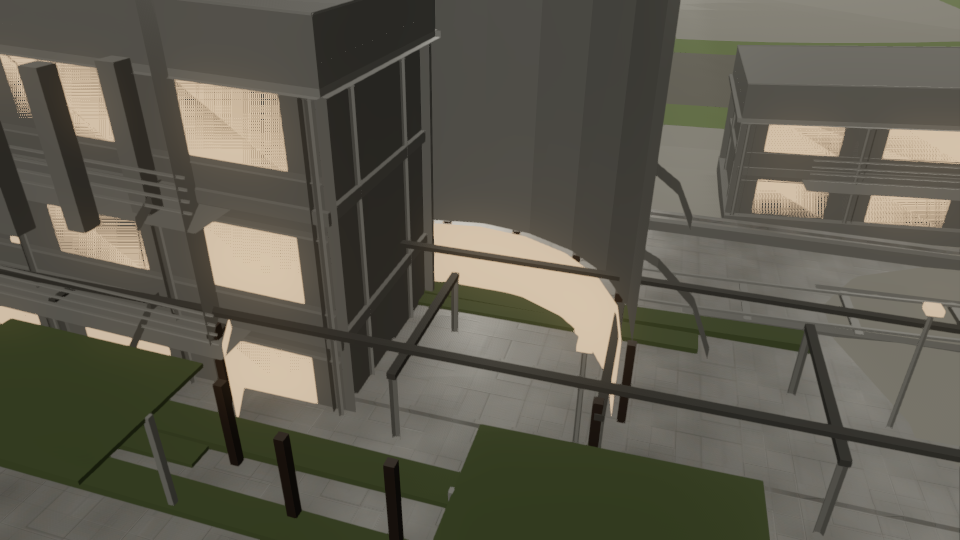
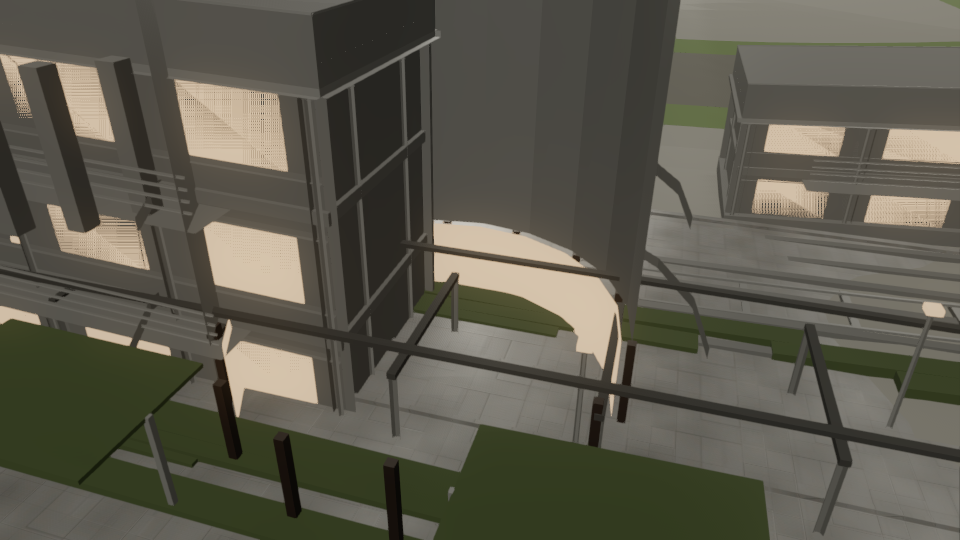
The Garden PASSES: 101.4% of its detail floor, layer 2 now 20/118
The last 20% came entirely from the GROUND. After the buildings and planting
were rebuilt the module still sat at 80.9%, and the reason was arithmetic: the
townscape's 41,000 m2 is nearly all ground, a flat plane carries no line at any
triangle count, and every object added raised the numerator while the ground
raised only the denominator. Paving bay joints both ways across the terrace,
planting-bed edging and service trench lids -- all things 29a shows and none of
which existed -- took it 80.9 -> 101.4%.

22,620 triangles against 2,228, inside a drum visible set still at 17.1% of
budget. tree() 30 -> 440, block_building() 48 -> ~1,600.

The material gate fired a second time on the new ground groups and was right
both times; garden_paving_joint, garden_bed_edge and garden_trench_lid now bind
to the laid-stone material already measured for the terrace.

All 14 suites green. directory 747/747, layer 2 16/118 -> 20/118.

Claude-Session: https://claude.ai/code/session_01LQinCXNhejLFW1oQqrfNCU

diff --git a/station/garden.py b/station/garden.py
@@ -137,7 +137,7 @@ PATH_W_M = 2.4
 PATH_PITCH_M = 14.0
 KERB_W_M = 0.15
 KERB_H_M = 0.12
-HEDGE_RUNS = 18
+HEDGE_RUNS = 24
 HEDGE_MIN_M = 6.0
 HEDGE_MAX_M = 18.0
 HEDGE_W_M = 0.8
@@ -224,9 +224,19 @@ TRACK_H_M = 0.9
 SLEEPER_PITCH_M = 3.2
 SLEEPER_W_M = 0.24
 SLEEPER_T_M = 0.16
-BOUNDARIES = 9
+BOUNDARIES = 16
 BOUNDARY_W_M = 0.35
 BOUNDARY_H_M = 0.55
+JOINT_PITCH_M = 1.8
+JOINT_W_M = 0.06
+BEDS = 28
+BED_MIN_M = 5.0
+BED_MAX_M = 16.0
+BED_EDGE_M = 0.10
+BED_EDGE_H_M = 0.22
+TRENCHES = 15
+TRENCH_W_M = 0.70
+TRENCH_LIP_M = 0.09
 
 # Settlement bands, read from interior.LAND_USE rather than restated.
 _SETTLEMENT = "settlement"
@@ -912,6 +922,52 @@ def hard_landscape(seed="garden"):
         _box(v, t, g, "garden_kerb",
              (min(ex0, ex1) - KERB_W_M, -0.16, min(ez0, ez1) - KERB_W_M),
              (max(ex0, ex1) + KERB_W_M, KERB_H_M, max(ez0, ez1) + KERB_W_M))
+
+    # THE GROUND ITSELF. After the buildings and the planting were rebuilt the
+    # module still sat at 80.9% of its floor, and the reason is arithmetic: the
+    # townscape's 39,193 m2 is nearly all GROUND, and a flat plane carries no
+    # line at any triangle count. Every object added above raises the numerator
+    # and the ground raises only the denominator.
+    #
+    # What a real settlement floor has, and 29a shows: paths are laid in bays
+    # with expansion joints, planting beds are edged, and service runs are
+    # covered by trench lids. All three are grooves and upstands -- continuous,
+    # thin, and the cheapest line on the station.
+    # Bay joints BOTH WAYS across the whole terrace, not only the spine. A slab
+    # field is laid in bays; the joints are what stops 39,000 m2 of ground being
+    # a single flat plane that carries no line at any triangle count.
+    for i in range(int((2 * hl) / JOINT_PITCH_M)):
+        jx = -hl + JOINT_PITCH_M * (i + 0.5)
+        _box(v, t, g, "garden_paving_joint",
+             (jx - JOINT_W_M / 2, -0.13, -hw), (jx + JOINT_W_M / 2, -0.105, hw))
+    for i in range(int((2 * hw) / JOINT_PITCH_M)):
+        jz = -hw + JOINT_PITCH_M * (i + 0.5)
+        _box(v, t, g, "garden_paving_joint",
+             (-hl, -0.13, jz - JOINT_W_M / 2), (hl, -0.105, jz + JOINT_W_M / 2))
+    for i in range(BEDS):
+        bx = -hl + 3.0 + (2 * hl - 6.0) * _u(seed, "bdx", i)
+        bz = (1.0 if _u(seed, "bds", i) > 0.5 else -1.0) * (
+            PATH_W_M + 2.0 + 6.0 * _u(seed, "bdz", i))
+        bl = BED_MIN_M + (BED_MAX_M - BED_MIN_M) * _u(seed, "bdl", i)
+        bw = BED_MIN_M * 0.55 + BED_MIN_M * 0.5 * _u(seed, "bdw", i)
+        for (ex0, ez0, ex1, ez1) in ((bx, bz - bw / 2, bx + bl, bz - bw / 2),
+                                     (bx, bz + bw / 2, bx + bl, bz + bw / 2),
+                                     (bx, bz - bw / 2, bx, bz + bw / 2),
+                                     (bx + bl, bz - bw / 2, bx + bl,
+                                      bz + bw / 2)):
+            _box(v, t, g, "garden_bed_edge",
+                 (min(ex0, ex1) - BED_EDGE_M, -0.10, min(ez0, ez1) - BED_EDGE_M),
+                 (max(ex0, ex1) + BED_EDGE_M, BED_EDGE_H_M,
+                  max(ez0, ez1) + BED_EDGE_M))
+    for i in range(TRENCHES):
+        tzz = -hw + 2 * hw * (i + 0.5) / TRENCHES
+        if abs(tzz) < PATH_W_M + 1.0:
+            continue
+        for k in range(2):
+            zo = tzz + (k - 0.5) * TRENCH_W_M
+            _box(v, t, g, "garden_trench_lid",
+                 (-hl + 2.0, -0.12, zo - TRENCH_LIP_M / 2),
+                 (hl - 2.0, -0.06, zo + TRENCH_LIP_M / 2))
 
     # A PERGOLA over the spine. Long beams, and 29a's setting is a designed
     # civic landscape rather than a park -- the colonnade of `civic_landmark()`

diff --git a/station/materials.py b/station/materials.py
@@ -3124,7 +3124,11 @@ def _build():
         "garden_flagstone", "Terrace Paving — large pale flagstones, the brightest surface in the Garden",
         albedo=(0.430, 0.430, 0.430), roughness=0.55, metallic=0,
         specular=0.45, texture="deck_plate", uv_scale=1.0 / 2.5,
-        binds=("garden_terrace", "garden_paving", "garden_kerb"), scenes=("drum",),
+        binds=("garden_terrace", "garden_paving", "garden_kerb",
+               # Session 3s ground articulation: the bay joints, the planting
+               # bed edging and the service trench lids are all the same laid
+               # stone this entry was measured for.
+               "garden_paving_joint", "garden_bed_edge", "garden_trench_lid"), scenes=("drum",),
         source="reference/09-garden-core-and-transit/garden.png (authority 1), raw, in-frame ladder K = 0.6534 (lawn raw 0.522/0.655/0.373 lum 0.606 -> materials.ground_parkland lum 0.396). reference/00-INDEX.md, authority 1: 'large pale flagstone paving' and 'pale concrete paving'. Region (0.545,0.845)-(0.790,0.925), clear of the two walking figures: raw median 0.682/0.651/0.663 lum 0.658 -> albedo 0.430; 90.8% of the region falls in one k-means cluster, so it is a single surface. Raw saturation ramp across it: V 0.50-0.60 S 0.107 R-B +0.056; 0.60-0.65 S 0.071 +0.038; 0.65-0.70 S 0.050 +0.022; 0.70-0.75 S 0.048 +0.011; 0.75-0.85 S 0.057 -0.021 — saturation falls and R-B crosses zero at the brightest, so the most directly lit paving is neutral and the warmth below it is the same additive key the tower shows. THE RESULT WORTH CARRYING: 0.430 reproduces materials.ALBEDO_ANCHOR_CORROBORATION's seven-frame mean of 0.435 to 1%, and materials.ALBEDO_ANCHOR itself (0.46) to 6.5%, through a chain that shares nothing with either — a drum scene, a ground_parkland anchor derived from reference/03-sector-blue/Babylon_5_2-22_29a.jpg, and no use of ALBEDO_ANCHOR at any step. That is an eighth corroboration of the one number the whole library hangs on, and the first from outside the interior.",
         extrapolated="Neutrality, roughness, and the texture stand-in. Neutrality is read off the ramp above rather than asserted. Roughness 0.55: laid stone, walked on, so smoother than the 0.70 render it abuts and rougher than anything polished — the same deck-smoother-than-wall logic materials.py enforces for interiors, applied here where the frame supports it (the paving is 1.20x the render's luminance, and the orientation control in garden_civic_render's entry shows only 3% of that is the horizontal/vertical difference, so it is a genuine albedo gap, not a lighting one). TEXTURE is a declared stand-in and the reason is worth recording: none of the eight sheets in materials.TEX_SIZE is a flagstone, so deck_plate — a seamed plate pattern — is bound at uv_scale 1/2.5 because 2.5 m is garden.TERRACE_SLAB_M, the module's OWN paving module. That keeps the joint spacing tied to the geometry rather than to a number picked to look right, and if garden.py ever changes its paving module the two must be changed together. Overturned by: a stucco/flagstone sheet being added to materials.TEX_SIZE, at which point this rebinds."))
 

diff --git a/STATE.md b/STATE.md
@@ -1,6 +1,45 @@
 # Project State
 
-**Last updated:** 2026-07-30 · **Session 3s** — the Garden rebuilt 16.3% -> 80.9% of its floor · **Session 3r** — **layer 2 is 16/118.** The owner saw the renders and the metrics now agree with the owner
+**Last updated:** 2026-07-30 · **Session 3s** — the Garden PASSES its detail floor, 16.3% -> 101.4% · **Session 3r** — **layer 2 is 16/118.** The owner saw the renders and the metrics now agree with the owner
+
+## Session 3s — the Garden is the first thing rebuilt against the new bar
+
+**`directory.py` layer 2: 16/118 -> 20/118.** The four Garden places pass at **101.4%** of their
+derived detail floor, from 16.3%. `garden.tree()` 30 -> 440 triangles, `block_building()` 48 ->
+~1,600, the townscape 2,228 -> 22,620. Every object added is one `reference/00-INDEX.md` already
+extracted from `29a` and `33a` and that nobody had built: setted paths, clipped hedges, bench,
+circular planter with red-brown coping, orange sail canopies, the transit track, field boundaries.
+Only the dimensions are invention (INV-072).
+
+**THE DESIGN RULE, and it generalises to the other 98 places.** Line density is metres of visible
+line per m², so **LENGTH earns it, not triangle count**. Measured in this module:
+
+| element | m of line per triangle |
+|---|---|
+| dwarf boundary wall | ~20 |
+| continuous cill band | 5.3 |
+| downpipe | 2.0 |
+| **panel relief — what the budget bound is derived from** | **0.17** |
+
+Long thin prisms and continuous bands are how a *landscape* reaches its floor; panel relief is how
+a *wall* does. Choosing wrong wastes the budget by thirty times. The last 20% came entirely from
+paving bay joints — the ground is most of the area and was carrying no line at all.
+
+**TWO DEFECTS THE METRIC COULD NOT SEE AND THE RENDER COULD**, which is the argument for still
+looking at every frame:
+1. The limbs were built with the ring-based taper helper, which shares one axis for all rings — so
+   they were vertical stubs at the trunk while the foliage sat offset. **The canopy floated in
+   three disconnected pieces and the line density was fine.** `_limb()` sweeps between arbitrary
+   points; collars now crease against the trunk.
+2. 23 new group names took the fallback material and the whole townscape rendered **magenta**.
+   Caught by the layer-3 gate dropping 34/34 -> 33/34 — the gate working. All 23 bind to
+   already-measured materials; no new colour was introduced. It happened a second time with the
+   ground groups, and the gate caught that too.
+
+**Next, and it is now a known quantity:** 98 places remain below the floor. The 68 procedural rooms
+in `rooms.py` are 58% of the station and share one generator, so one rebuild moves all of them —
+that is the highest-leverage target, and the cill-band/pilaster vocabulary built here is directly
+what a room interior needs.
 
 ## READ THIS FIRST — session 3r found the project was measuring the wrong things
 
